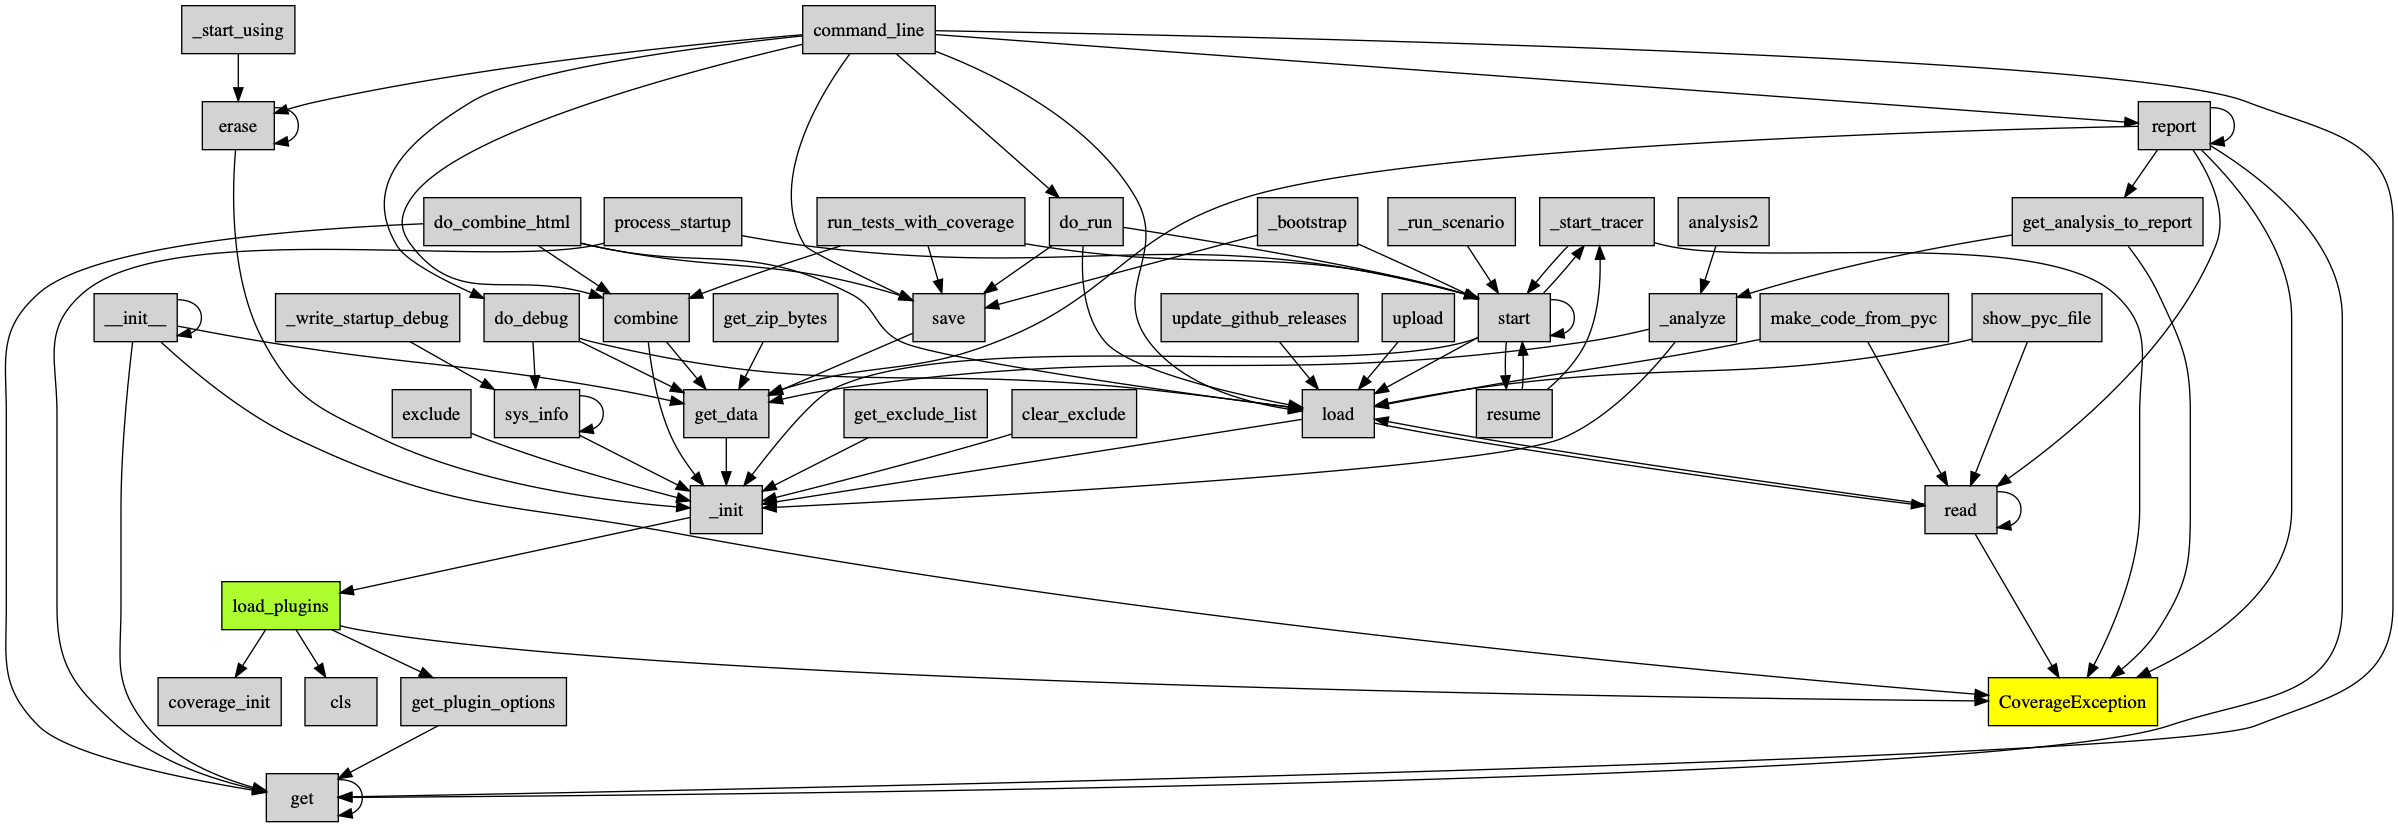
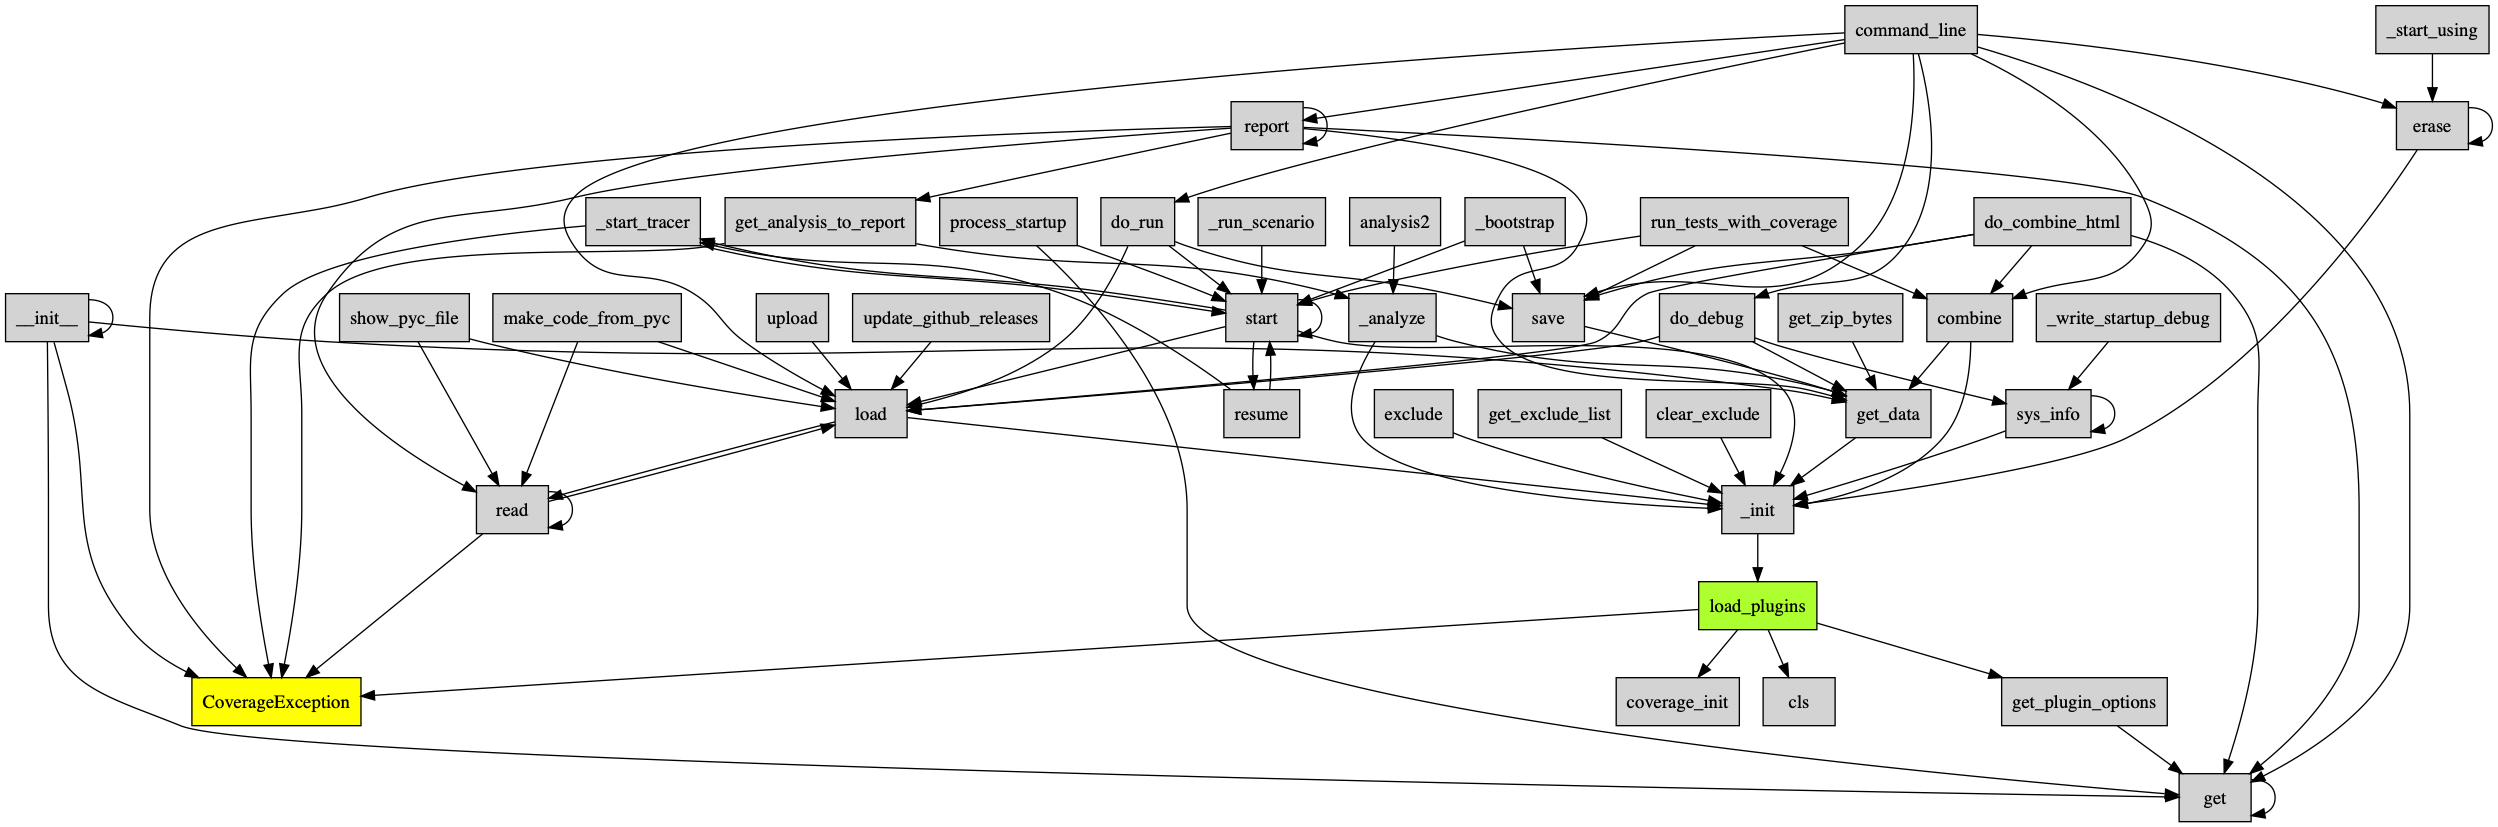
Refactor code

diff --git a/build_func_deps_dot.py b/build_func_deps_dot.py
@@ -30,12 +30,12 @@ if __name__ == '__main__':
     call_graph = read_gpickle(input_file)
     upstream_paths = {}
     downstream_paths = {}
-    if downstream_cutoff > 0:
-        upstream_paths = nx.single_source_shortest_path(
-            call_graph, func_to_check, cutoff=downstream_cutoff)
     if upstream_cutoffs > 0:
+        upstream_paths = nx.single_target_shortest_path(
+            call_graph, func_to_check, cutoff=upstream_cutoffs)
+    if downstream_cutoff > 0:
         downstream_paths = nx.single_source_shortest_path(
-            call_graph.reverse(), func_to_check, cutoff=upstream_cutoffs)
+            call_graph, func_to_check, cutoff=downstream_cutoff)
     path_funcs = set()
     for func_node in upstream_paths.items():
         path_funcs.update(func_node[1])
